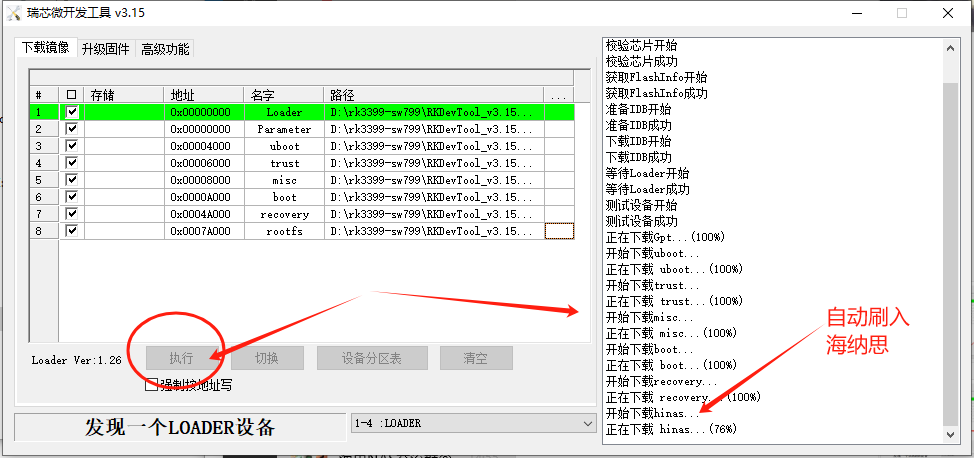
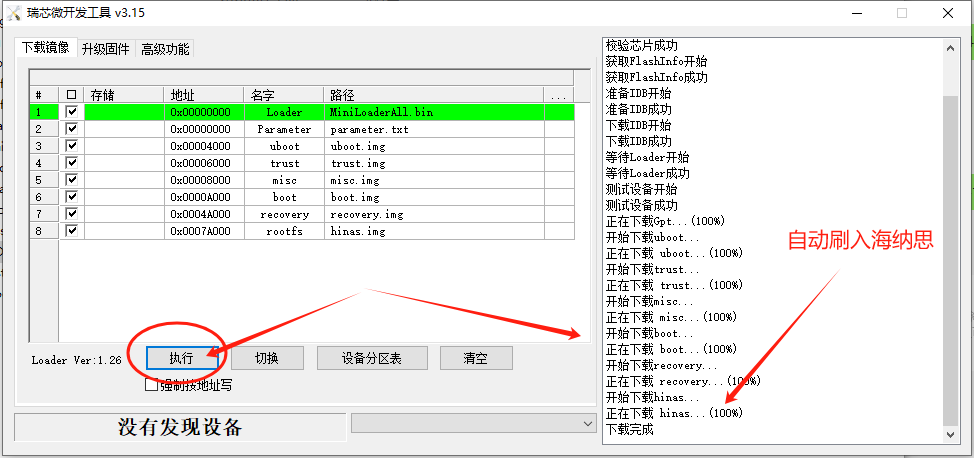
update

diff --git a/docs/tutorial-basics/rk3399sw799.md b/docs/tutorial-basics/rk3399sw799.md
@@ -35,7 +35,7 @@ sidebar_position: 5
 
 ### 3.下载作者定制的专用刷机工具
 
-瑞芯微-海纳思专用刷机工具下载地址:  
+瑞芯微-海纳思专用刷机工具下载地址 (267M) :  
 
 [RKDevTool_v3.15_for_hinas.zip](https://www.ecoo.top/update/soft_init/rk3399sw799/RKDevTool_v3.15_for_hinas.zip)  
 
@@ -110,6 +110,9 @@ sidebar_position: 5
 最后，恭喜您拥有一台千兆的家用 linux 服务器系统 ！  
 我是小盒子，也是大世界！  
 海纳思系统，绝对值得拥有！   
+
+![pic](pic/rk3399/sw799-14.png)  
+
 ![pic](pic/rk3399/sw799-13.jpg)  
 
 
